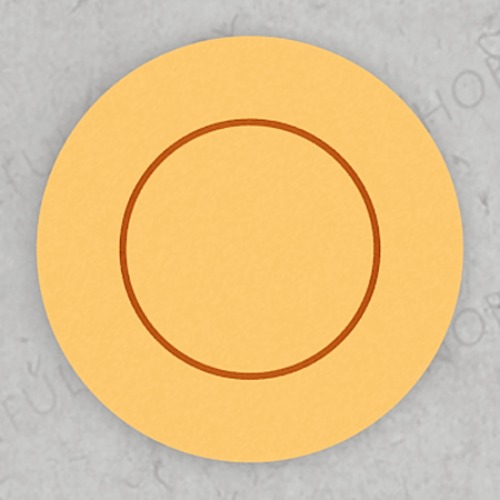
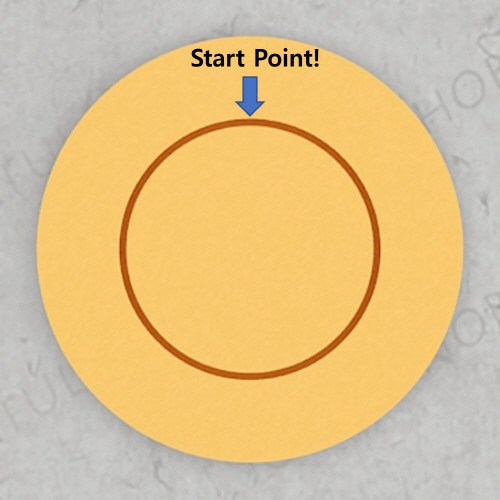
Display start poing in img file & Add Time limit(15sec)

Changed region(s): [[0.36, 0.09, 0.66, 0.24]]

diff --git a/Draw.py b/Draw.py
@@ -19,11 +19,13 @@ start_condition = False
 global starttimer
 starttimer= False
 global img
+global remain_time
+remain_time = 15
 
 
 color = (0, 0, 0)  # 컬러지정
 
-cap = cv2.VideoCapture(1)  # 웹캠 번호 지정
+cap = cv2.VideoCapture(0)  # 웹캠 번호 지정
 cap.set(3, display_size_width)  # 가로 크기 수정
 cap.set(4, display_size_height)  # 세로 크기 수정
 
@@ -47,6 +49,19 @@ def timer(startlist, shape_num):
             return
 
     start_condition = True
+    thread = Thread(target=timer1, args=())
+    thread.start()
+
+def timer1():
+    global remain_time
+    global start_condition
+    time_limit = time.time() + 15
+    while time.time() < time_limit:
+        remain_time = round(time_limit - time.time())
+        cv2.putText(img, str(remain_time), (500, 100), cv2.FONT_HERSHEY_DUPLEX, 3, (255, 0, 0), 2)
+        if start_condition == False:
+            return
+        
 
 
 # 달고나 모양 랜덤 선택
@@ -128,6 +143,17 @@ while True:
                     break
             if broken == True:
                 print("Dalgona Broken")
+                cv2.line(imgCanvas, (xp, yp), (250, 250), (200, 200, 200), 6)
+                if xp <= 250:
+                    if yp <= 250:
+                        cv2.line(imgCanvas, (400, 400), (250, 250), (200, 200, 200), 6)
+                    else:
+                        cv2.line(imgCanvas, (400, 100), (250, 250), (200, 200, 200), 6)
+                else:
+                    if yp <= 250:
+                        cv2.line(imgCanvas, (100, 400), (250, 250), (200, 200, 200), 6)
+                    else:
+                        cv2.line(imgCanvas, (100, 100), (250, 250), (200, 200, 200), 6)
                 quit()
             if correct == False:
                 print("*********************die***********************")
@@ -137,7 +163,9 @@ while True:
                 startlist[shape_num][1] - 10 < y1 < startlist[shape_num][1] + 10 and 150 < len(log):
                 print("game complete----------------")
                 break
-
+    if remain_time == 0:
+        result = "4"
+        break
 
     cv2.imshow('dd', imgCanvas1)
     cv2.imshow("CAM", img)
@@ -146,7 +174,19 @@ while True:
 
 
 if dr.score(contours[1], imgCanvas1, shape_num) == "success":
-    print("점수 : " + str(log.count(1)/len(log)*100))
+    score = log.count(1)/len(log)*100
+    if score <= 75:
+        print('하')
+        result = "3"
+    elif 75 < score <= 85:
+        print('중')
+        result = "2"
+    else:
+        print('상')
+        result = "1"
+    print(score)
+    print("점수 : " + str(log.count(1) / len(log) * 100))
 elif dr.score(contours[1], imgCanvas1, shape_num) == "fail":
     print("실패")
+    result = "3"
 

diff --git a/Dalgona_for_flask/main.py b/Dalgona_for_flask/main.py
@@ -26,6 +26,8 @@ global img
 global result
 result = "0"
 global shape_num
+global remain_time
+remain_time = 15
 
 cap = cv2.VideoCapture(0)
 color = (0, 0, 0)  # 컬러지정
@@ -57,6 +59,19 @@ def timer(startlist, shape_num):
             return
 
     start_condition = True
+    thread = Thread(target=timer1, args=())
+    thread.start()
+
+def timer1():
+    global remain_time
+    global start_condition
+    time_limit = time.time() + 15
+    while time.time() < time_limit:
+        remain_time = round(time_limit - time.time())
+        cv2.putText(img, str(remain_time), (500, 100), cv2.FONT_HERSHEY_DUPLEX, 3, (255, 0, 0), 2)
+        if start_condition == False:
+            return
+        
 
 
 def gen_frames():
@@ -66,6 +81,7 @@ def gen_frames():
     global img
     global result
     global shape_num
+    global remain_time
 
     # 달고나 모양 좌표 추출
     imgCanvas = cv2.imread(imglist[shape_num])
@@ -147,6 +163,9 @@ def gen_frames():
                         print("game complete----------------")
                         # result = "2"
                         break
+            if remain_time == 0:
+                result = "4"
+                return
 
             ret, buffer = cv2.imencode('.jpg', img)
             frame = buffer.tobytes()
@@ -245,6 +264,8 @@ def video_feed():
     global result
     global shape_num
     result = "0"
+    global remain_time
+    remain_time = 15
 
     # 달고나 모양 랜덤 선택
     shape_num = random.randrange(0, 5)
